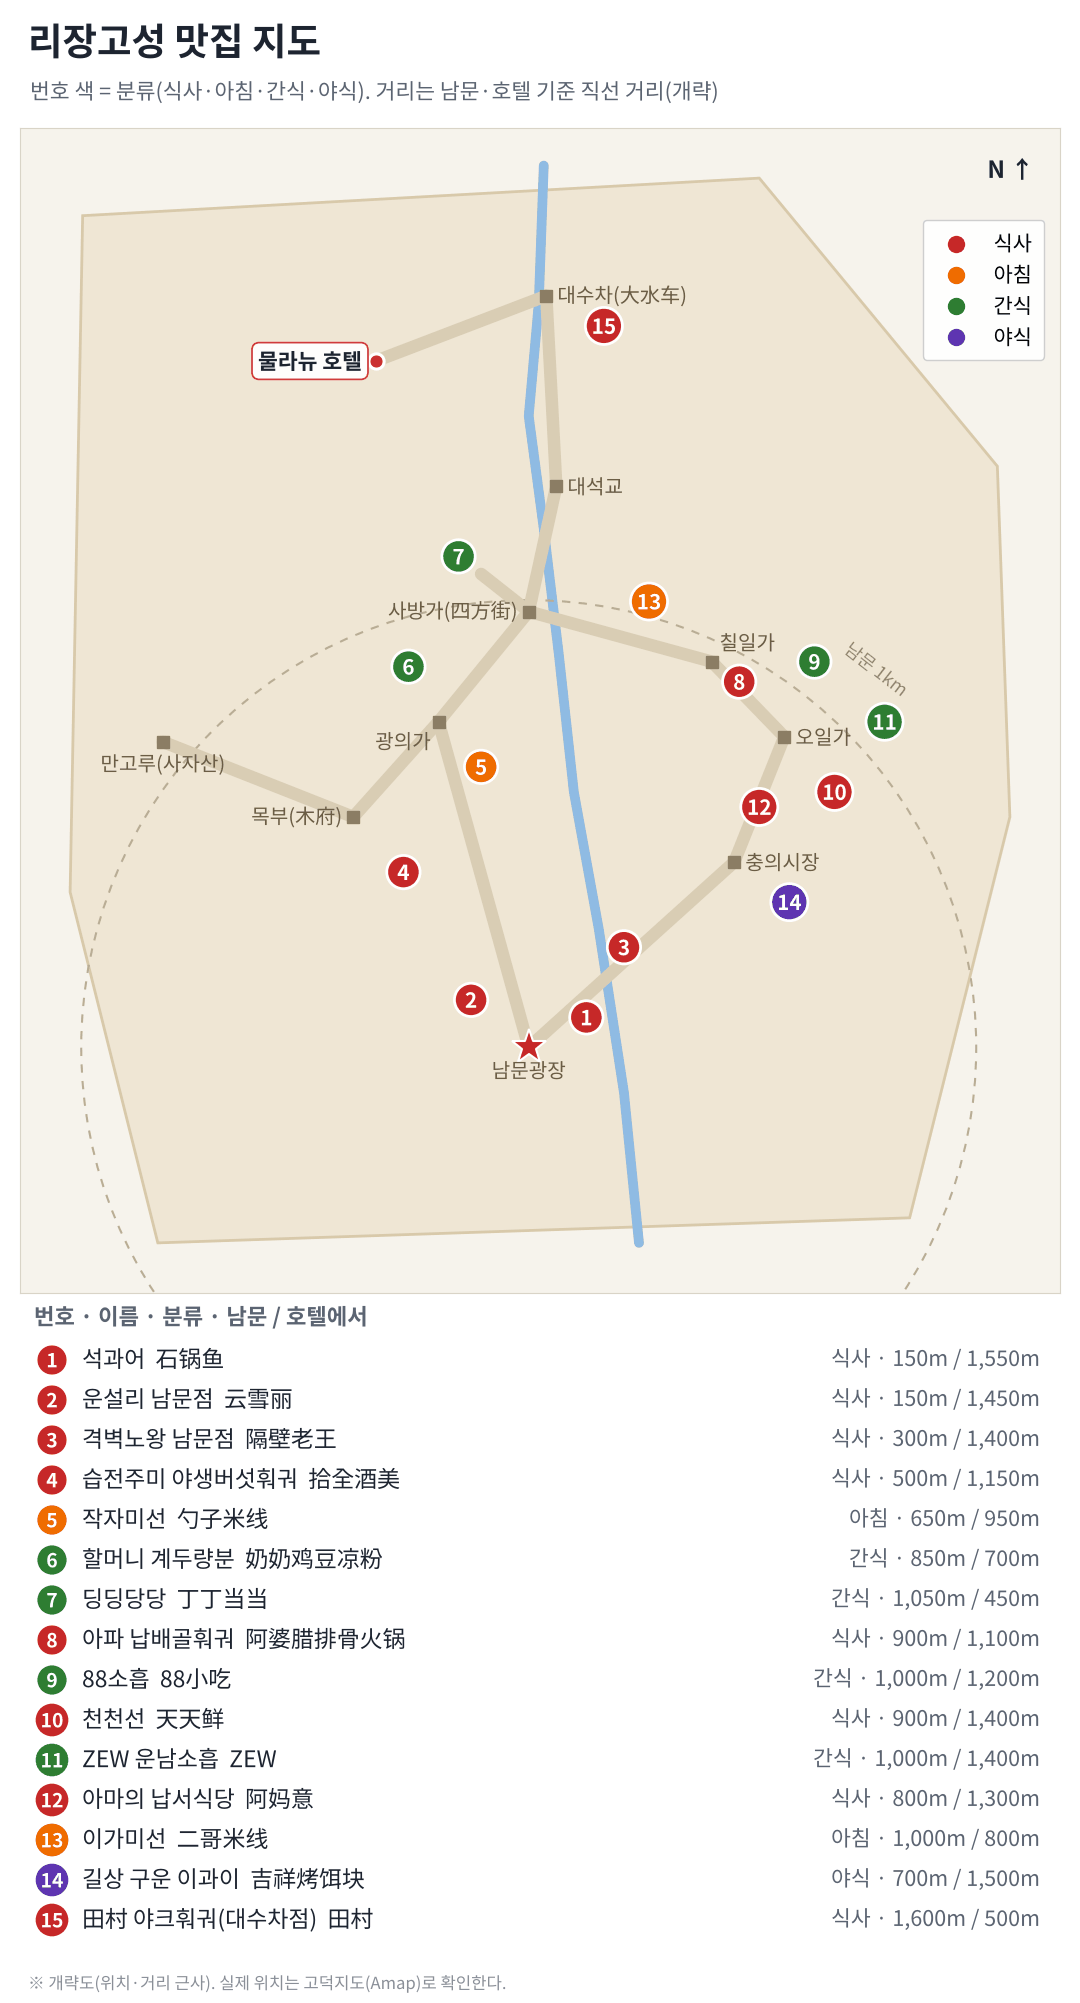
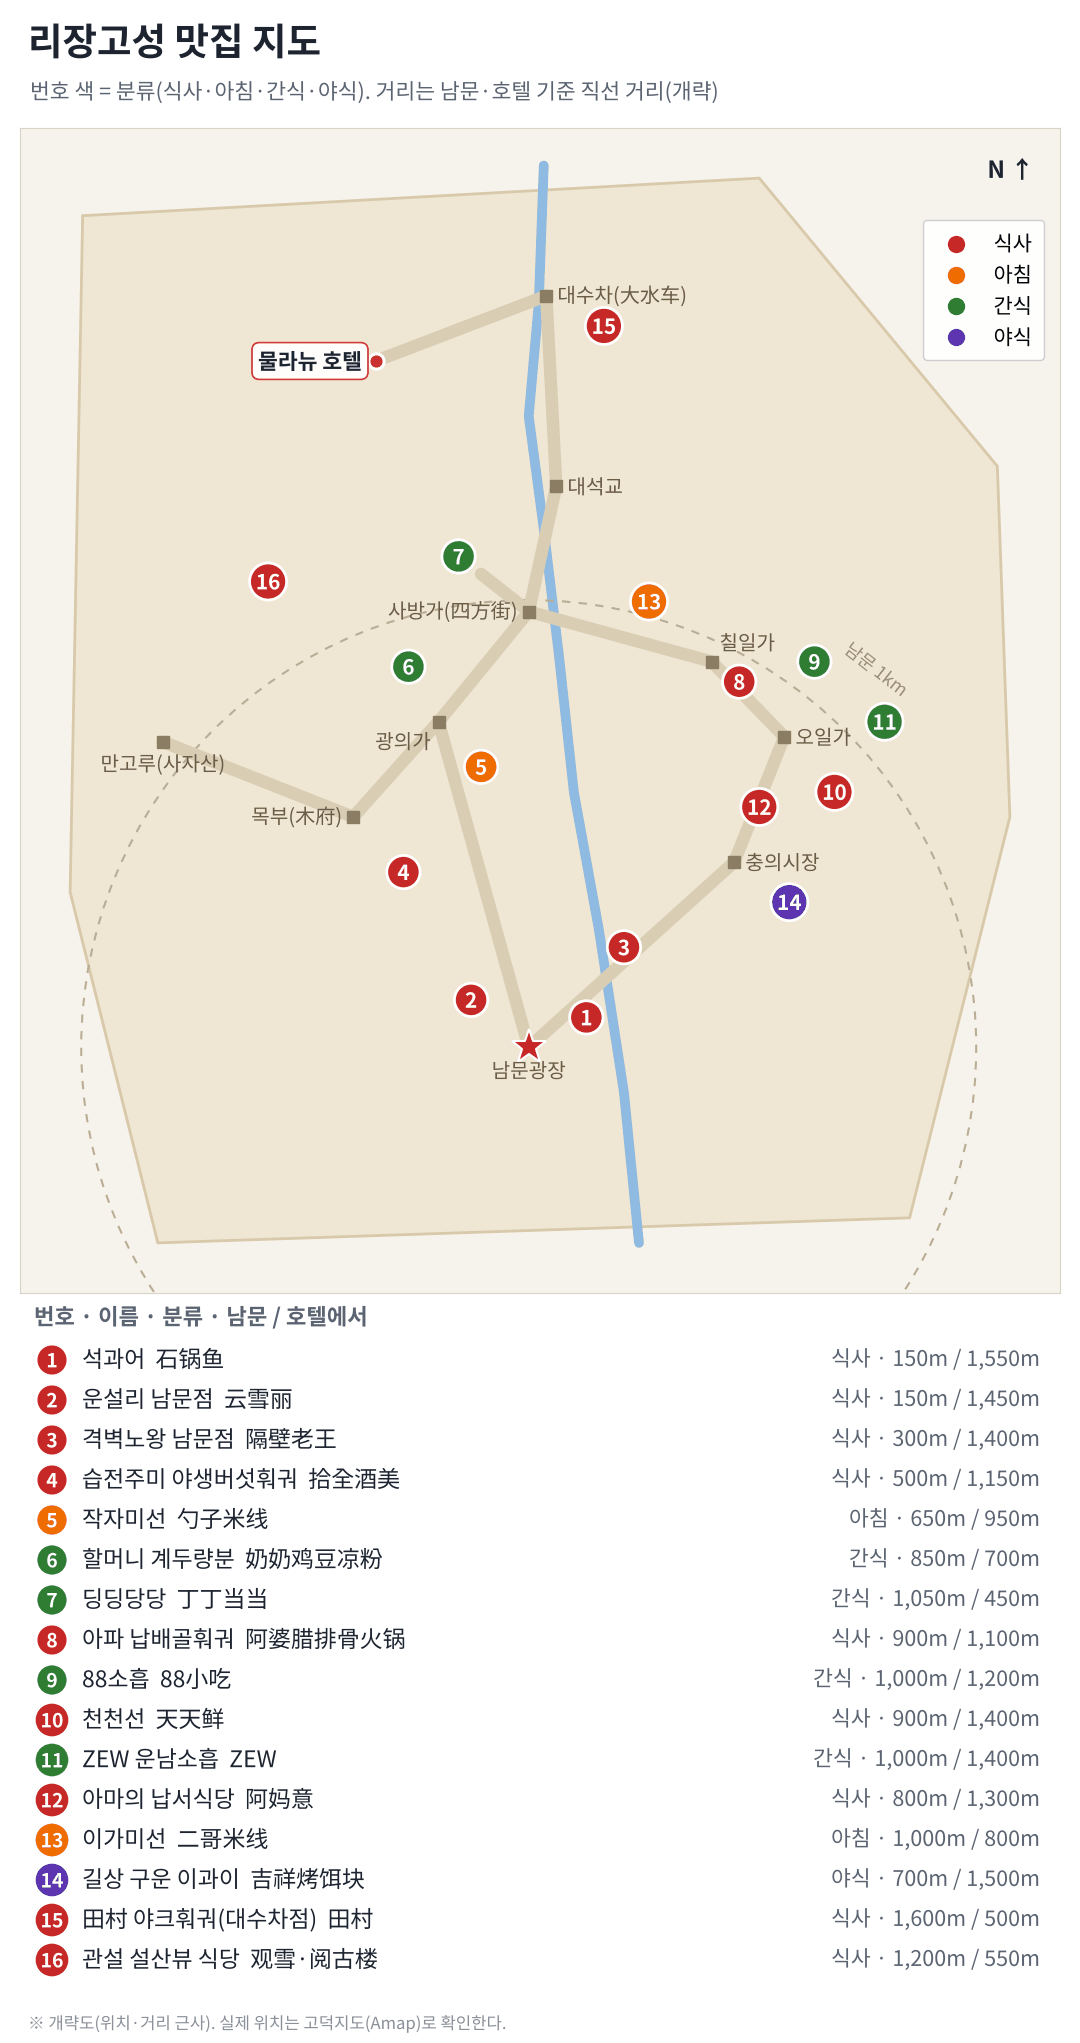
관설·열고루 설산뷰 식당(观雪·阅古楼, 만고루점) 추가(웹 1.5.8 배포·앱 1.5.8 릴리스)
Claude-Session: https://claude.ai/code/session_01RqJ3Se7kzhbz5fxXJgdegj

diff --git a/android/app/src/test/java/kr/koasis/travelyunnan/DomainTest.kt b/android/app/src/test/java/kr/koasis/travelyunnan/DomainTest.kt
@@ -241,7 +241,7 @@ class S6Test {
         assertEquals(listOf("map_d8"), d.day("D8")!!.mapIds)
         assertTrue(d.maps.none { it.id == "map02" || it.id == "map04" || it.id == "ref_cablecar" })
         val pins = d.map("map06")!!.pins
-        assertEquals(15, pins.size)
+        assertEquals(16, pins.size)
         assertTrue(pins.all { it.hotelDistance.isNotBlank() && it.color.startsWith("#") })
         assertTrue(d.hotspotsOf("map_d3").any { it.key == "sifang" })
     }

diff --git a/android/app/src/main/java/kr/koasis/travelyunnan/BuildConfigInfo.kt b/android/app/src/main/java/kr/koasis/travelyunnan/BuildConfigInfo.kt
@@ -1,5 +1,5 @@
 package kr.koasis.travelyunnan
 
 object BuildConfigInfo {
-    const val VERSION = "1.5.7"
+    const val VERSION = "1.5.8"
 }

diff --git a/tools/draw_maps.py b/tools/draw_maps.py
@@ -656,7 +656,7 @@ PINS = [  # no, 이름, 중국어, 분류, 남문거리, 도식좌표, 핫스팟
     (12, "아마의 납서식당", "阿妈意", "식사", 800, (300, 296), ("poi", None, ["아마"], "阿妈意纳西饮食院", "五一街")),
     (13, "이가미선", "二哥米线", "아침", 1000, (256, 214), ("meal", "二哥米线", ["이가미선"], "二哥米线", "崇仁巷32号 아침")),
     (14, "길상 구운 이과이", "吉祥烤饵块", "야식", 700, (312, 334), ("poi", None, ["이과이"], "吉祥烤饵块", "长水路忠义市场夜市 야식")),
-    (15, "田村 야크훠궈(대수차점)", "田村", "식사", 1600, (238, 104), ("meal", "田村", ["田村"], "田村·酸汤牦牛肉火锅(古城大水车店)", "玉河走廊A区37号")),
+    (15, "田村 야크훠궈(대수차점)", "田村", "식사", 1600, (238, 104), ("meal", "田村", ["田村"], "田村·酸汤牦牛肉火锅(古城大水车店)", "玉河走廊A区37号")),    (16, "관설 설산뷰 식당", "观雪·阅古楼", "식사", 1200, (104, 206), ("place", "guanxue", ["관설", "观雪"], "观雪·阅古楼雪山观景餐厅(万古楼店)", "黄山上段53号 · 설산 전망 · 납배골 훠궈")),
 ]
 PIN_COLOR = {"식사": "#c62828", "아침": "#ef6c00", "간식": "#2e7d32", "야식": "#5e35b1"}
 M_PER_PX = 5.6  # 도식 좌표 1px ≈ 5.6m (남문 거리로 역산)
@@ -669,7 +669,7 @@ def hotel_dist(p):
 
 def map06():
     f = Fig("map06", "리장고성 맛집 지도", "번호 색 = 분류(식사·아침·간식·야식). 거리는 남문·호텔 기준 직선 거리(개략)",
-            (5, 420), (25, 490), invert_y=True, panels=[("list", 15 * 40 + 70)])
+            (5, 420), (25, 490), invert_y=True, panels=[("list", len(PINS) * 40 + 70)])
     oldtown_base(f)
     ax = f.ax
     ax.add_patch(Circle(OT["nm"], 1000 / M_PER_PX, fill=False, ec="#b9ad95", lw=1.5, ls=(0, (4, 4)), zorder=1.1))
@@ -680,7 +680,7 @@ def map06():
     for no, ko, zh, kind, dist, p, (t, key, kws, hz, note) in PINS:
         ax.annotate(str(no), p, ha="center", va="center", fontsize=15, fontweight="bold", color="white", zorder=9,
                     bbox=dict(boxstyle="circle,pad=0.3", fc=PIN_COLOR[kind], ec="white", lw=2))
-        nm = f"{'①②③④⑤⑥⑦⑧⑨⑩⑪⑫⑬⑭⑮'[no - 1]} {ko}"
+        nm = f"{'①②③④⑤⑥⑦⑧⑨⑩⑪⑫⑬⑭⑮⑯⑰⑱⑲⑳'[no - 1]} {ko}"
         f.hot(p, **H(nm, t, key, kws, hz, f"{kind} · 남문 약 {dist:,}m · 호텔 약 {hotel_dist(p):,}m" + (f". {note}" if note else "")))
     handles = [plt.Line2D([], [], marker="o", ls="", ms=14, color=c, mec="white", mew=1.5) for c in PIN_COLOR.values()]
     ax.legend(handles, list(PIN_COLOR), loc="upper right", fontsize=15, framealpha=0.95, ncol=1, borderpad=0.6,

diff --git a/docs/웹버전_구축절차서.md b/docs/웹버전_구축절차서.md
@@ -612,3 +612,9 @@ export const logout = () => localStorage.removeItem('login_email');
 - 인상리장 공연장(印象丽江)은 甘海子 초원 안, 옥룡설산 관광센터 바로 옆에 있다. 지도에서 관광센터 반대편에 따로 떨어져 있던 것을 고쳐, 관광센터·초원·공연장을 보라 점선 원 하나('甘海子 일대')로 묶었다. 셔틀은 甘海子 ⇄ 람월곡, 甘海子 ⇄ 대索道 하부역만 오가고, 복귀 차량은 공연장에서 출발하게 그렸다.
 - 관광지 정보 '인상리장 공연'에도 위치(甘海子 안·관광센터 옆)를 적었다. 지도 핫스팟 다시 계산.
 - 브라우저 점검 104항목, 앱 단위 테스트 62개 통과. 앱 1.5.7(versionCode 31).
+
+### 2026-11-07 · 관설·열고루 설산뷰 식당 추가 (웹 1.5.8 · 앱 1.5.8 릴리스)
+
+- 观雪·阅古楼雪山观景餐厅(万古楼店) 추가(사용자 제공 고덕지도 화면): 新华街黄山上段53号, 10:00~22:00, 1인 ¥36, 고덕 4.5·고성 훠궈 순위 24위, 납배골 훠궈 2~3인 단체구매 ¥166. 숙소 물라뉴(黄山上段18号)와 같은 길이라 D2·D3 식당 정보에 넣었다.
+- `places.json` guanxue(이름 검색 지도 링크), `restaurants.json` guanxue, 리장고성 맛집 지도 16번 핀(사자산 기슭, 남문 약 1,200m·호텔 약 550m, 개략).
+- 브라우저 점검 104항목, 앱 단위 테스트 62개 통과(맛집 지도 핀 수 15→16). 앱 1.5.8(versionCode 32).
